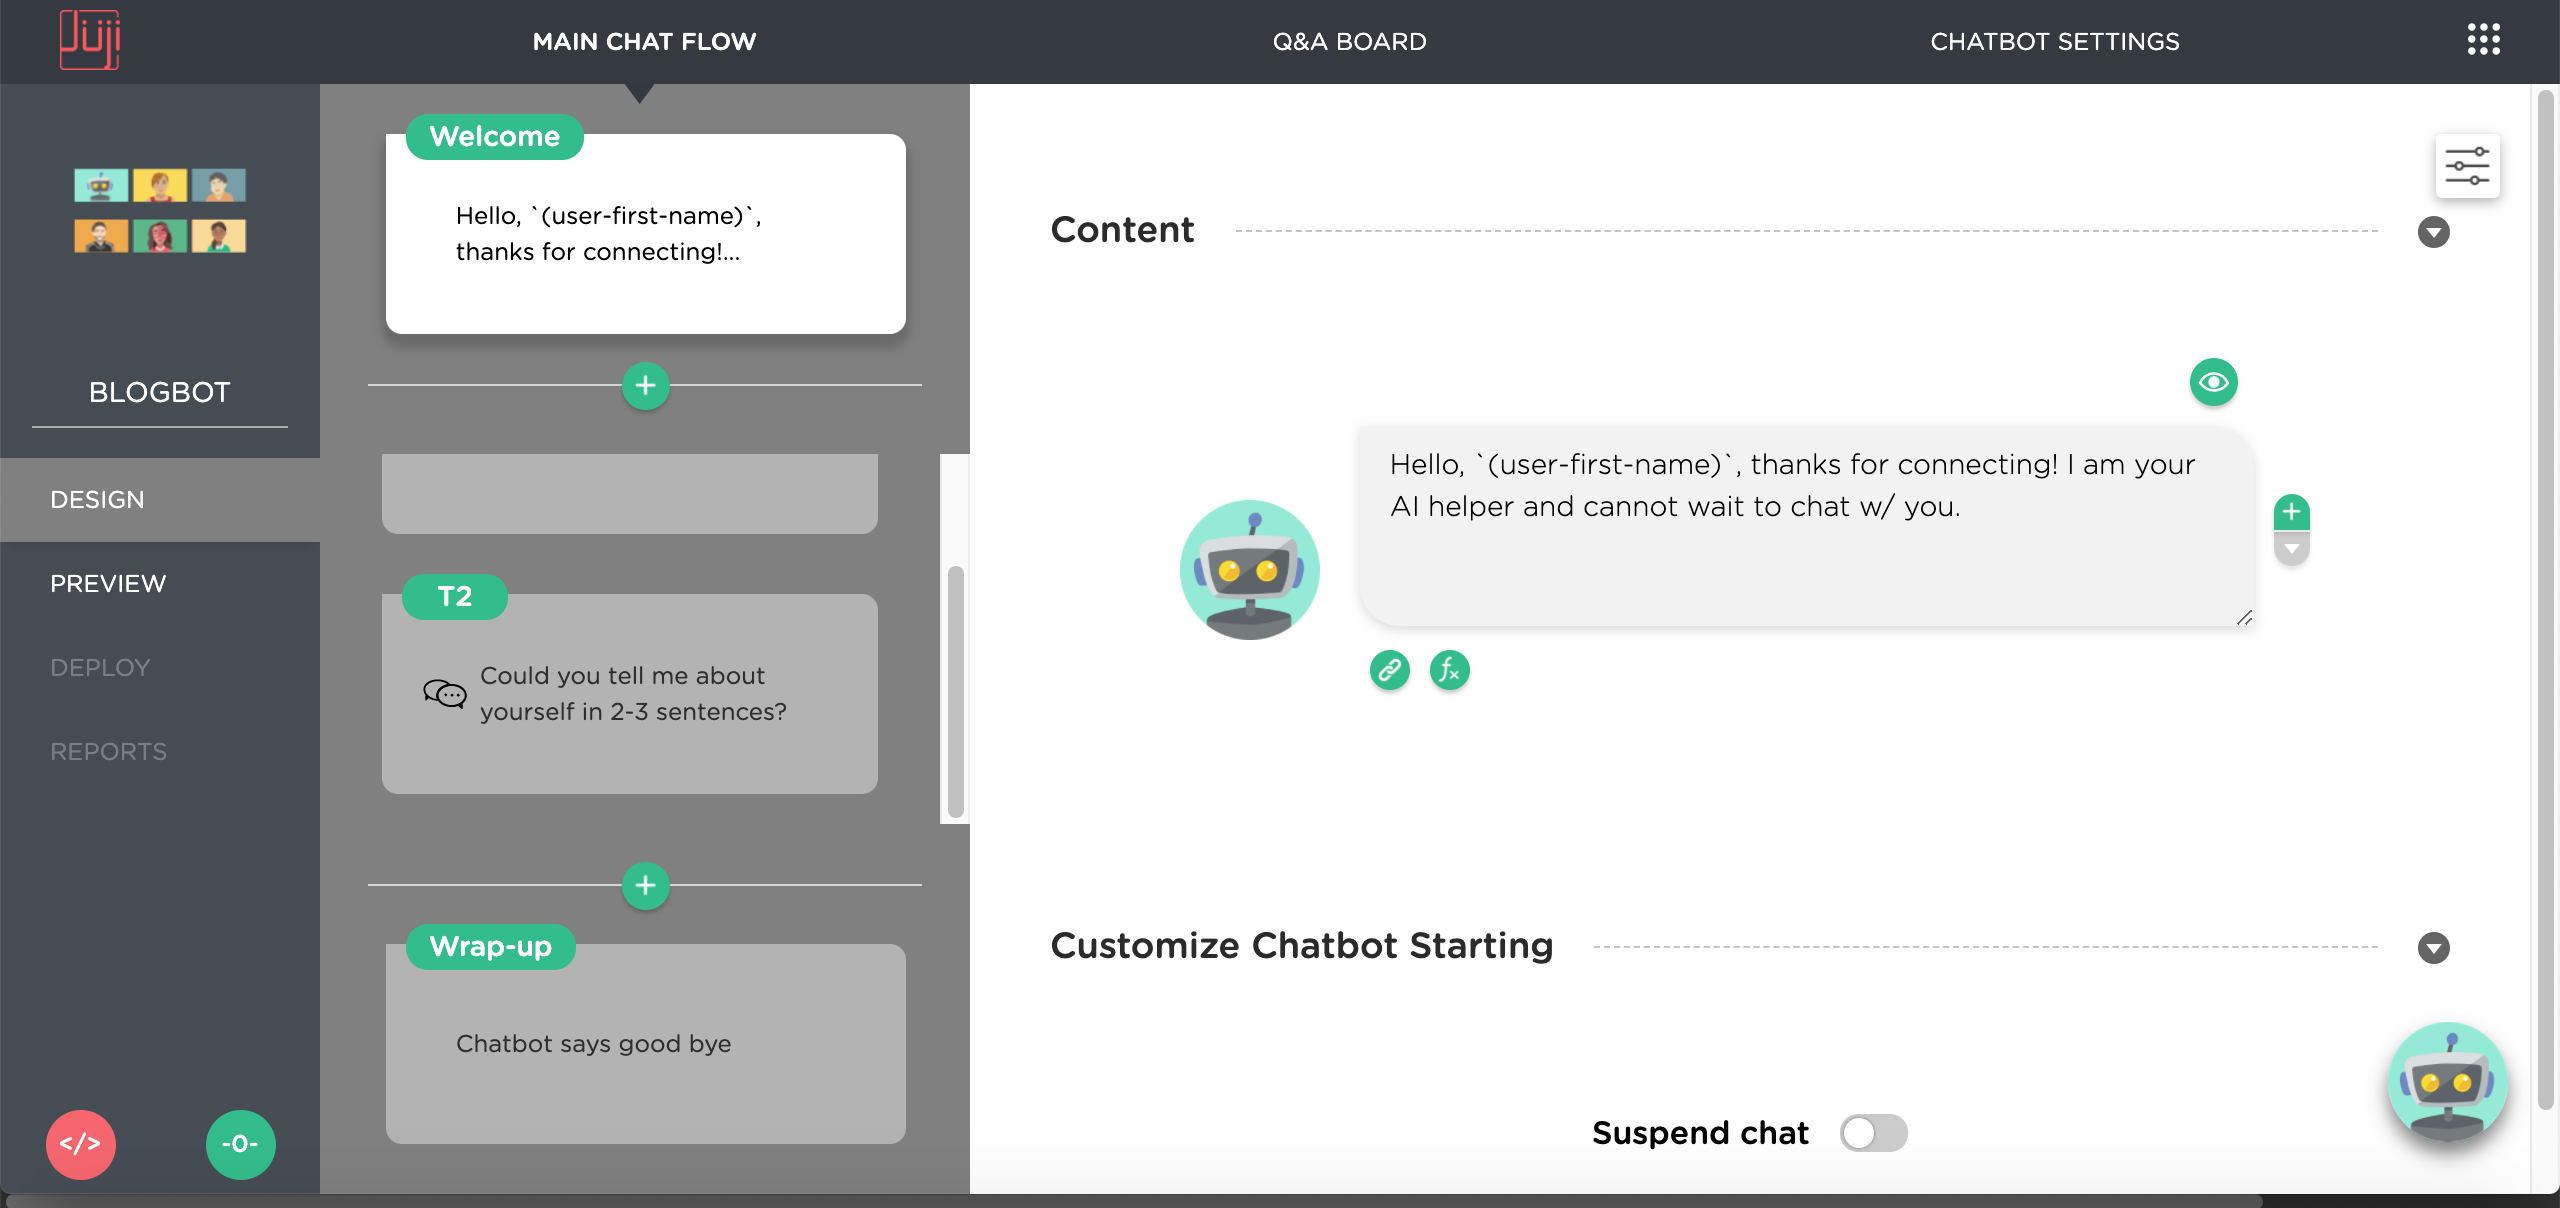
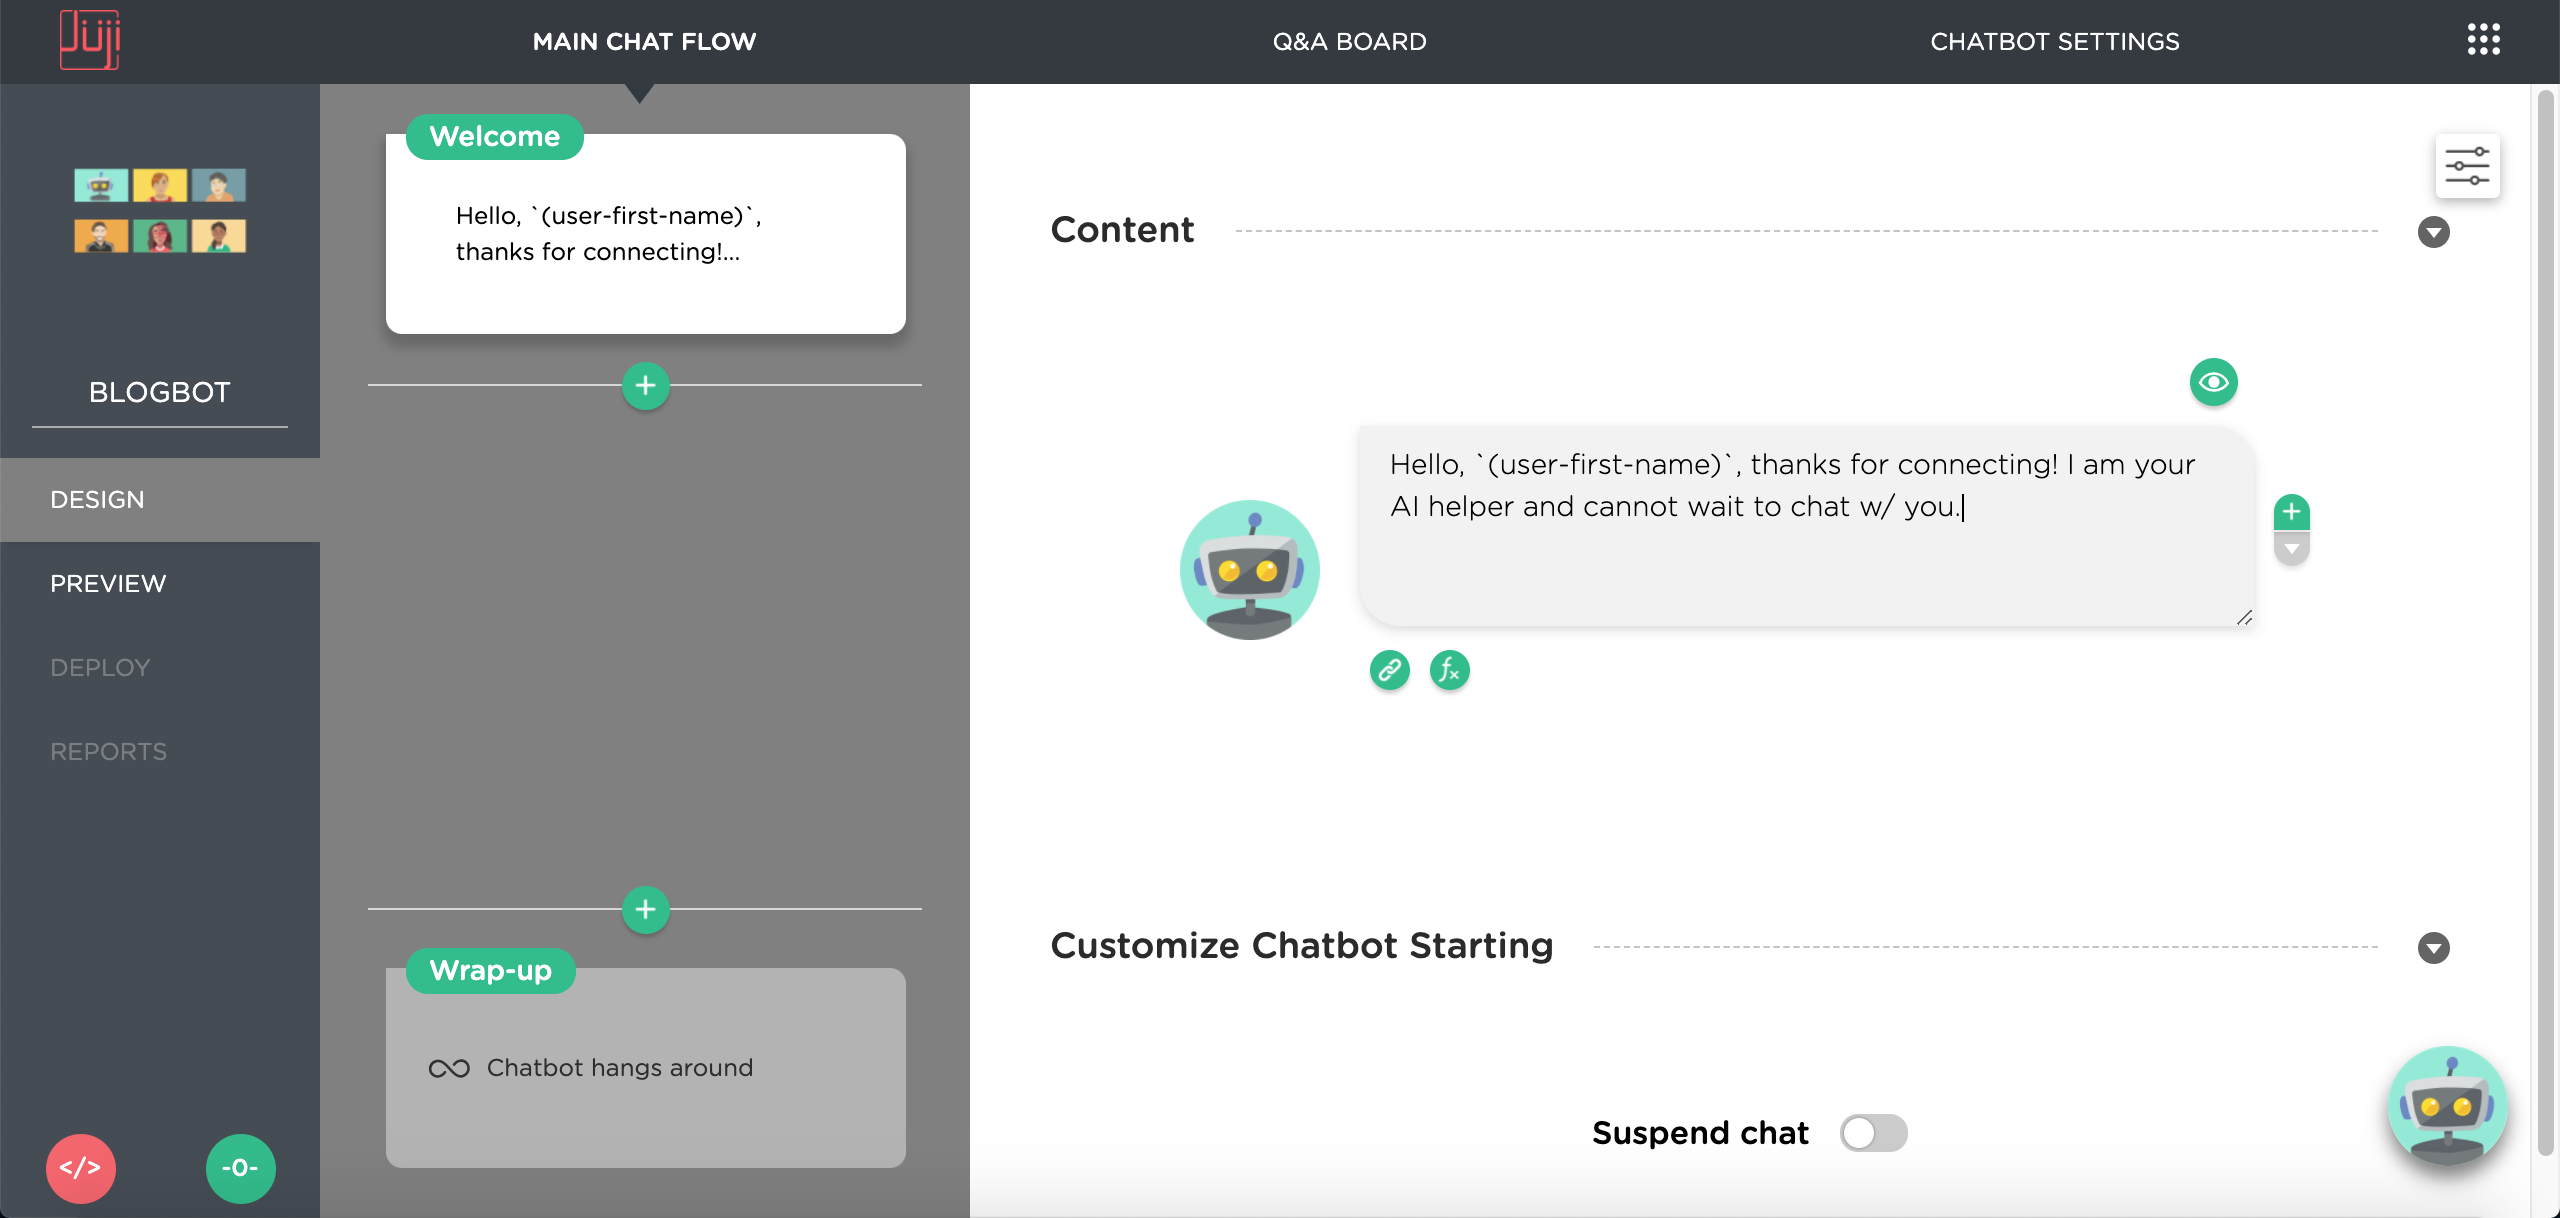
Update Article “you-can-create-a-chatbot-yes-im-talking-to-you-1”

diff --git a/blog/you-can-create-a-chatbot-yes-im-talking-to-you-1.md b/blog/you-can-create-a-chatbot-yes-im-talking-to-you-1.md
@@ -12,8 +12,6 @@ tags:
 image: /assets/uploads/alphabet-word-images-1292931_1280.png
 credit: Image by OpenClipart-Vectors from Pixabay
 ---
-
-
 **Gartner** predicts that 80% of business applications will have a chatbot by 2021. 
 
 "*Building a chatbot seems complicated, I don't really have the time to learn and build one*."
@@ -34,13 +32,11 @@ Let me show you how you can quickly DIY your first AI chatbot on Juji to send cu
 
 **Customize Chatbot Welcome and Wrap-up Messages.** The blank template comes with two conversation topics, one is a "***Welcome***" topic that greets users at the beginning of a chat, while the "***Wrap-up***" topic lets users know if the chatbot will hang around or greet a user goodbye. As shown in the screenshots below, you can easily customize both the welcome and wrap-up messages to suit your audience. If you prefer, you can also [customize the ending options](https://docs.juji.io/design/) like, looping back to the beginning of the chat. 
 
-![You can see the Welcome and Wrap-up messages on the left side.]( "Say Hello World Starting Page")
-
-**<Terri, if you use an empty template why there are topics besides the Welcome and Wrap-up, they are inconsistent with the text. Please upload new images that just contains the Welcome and Wrap-up topics>**
+![You can see the Welcome and Wrap-up messages on the left side.](/assets/uploads/startingscreen.png "Blank Template Starting Page")
 
 ![](/assets/uploads/welcomegreeting.png "Welcome Message")
 
-![](/assets/uploads/wrapupmessage.png "Wrap-Up Message")
+![](/assets/uploads/wrapupgreeting.png "Wrap-Up Message")
 
 **Support Free-Text Q&A.** One of the key functions of an AI chatbot is its abilities to address user's natural language inquiries during a chat. To do so, Juji enables you to provide a list of Q&As in a CSV file. First, you can download the CSV file template from the Q&A dashboard as shown below.
 
